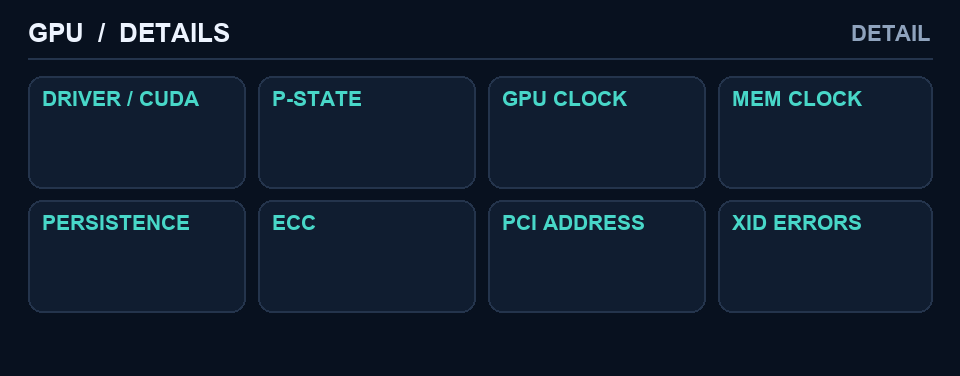
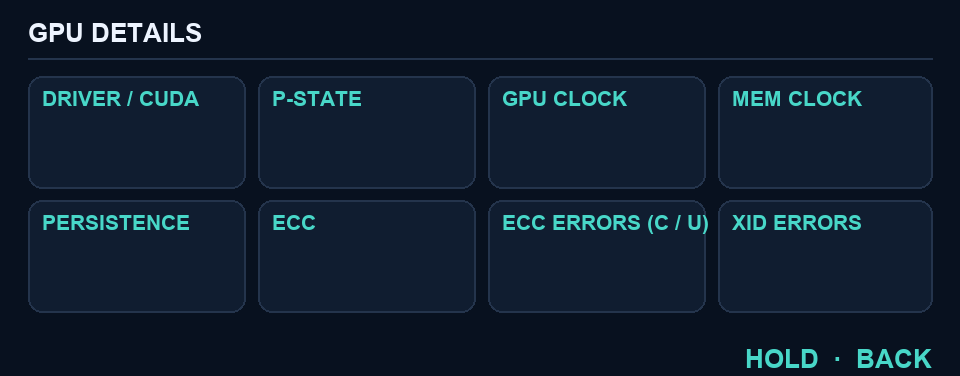
Refine GPU health dashboard

diff --git a/dashboard/generate-gpu-panels.py b/dashboard/generate-gpu-panels.py
@@ -28,7 +28,8 @@ def background(path, title, page, labels, detail=False):
     image = Image.new("RGB", (W, H), BG)
     draw = ImageDraw.Draw(image)
     draw.text((28, 18), title, font=font(26, True), fill=TEXT)
-    draw.text((930, 21), page, font=font(22, True), fill=MUTED, anchor="ra")
+    if page:
+        draw.text((930, 21), page, font=font(22, True), fill=MUTED, anchor="ra")
     draw.line((28, 58, 932, 58), fill=LINE, width=2)
     boxes = [
         (28, 76, 245, 188), (258, 76, 475, 188), (488, 76, 705, 188), (718, 76, 932, 188),
@@ -37,9 +38,10 @@ def background(path, title, page, labels, detail=False):
     for box, label in zip(boxes, labels):
         draw.rounded_rectangle(box, radius=14, fill=CARD, outline=LINE, width=2)
         draw.text((box[0] + 14, box[1] + 10), label, font=font(21, True), fill=TEAL if detail else BLUE)
-    if not detail:
-        draw.rounded_rectangle((730, 326, 932, 365), radius=19, outline=TEAL, width=2)
-        draw.text((831, 345), "HOLD · DETAILS ›", font=font(19, True), fill=TEAL, anchor="mm")
+    if detail:
+        draw.text((932, 344), "HOLD  ·  BACK", font=font(26, True), fill=TEAL, anchor="ra")
+    else:
+        draw.text((932, 344), "HOLD  ·  DETAILS", font=font(26, True), fill=TEAL, anchor="ra")
     image.save(path)
 
 
@@ -57,11 +59,11 @@ def sensor(name, x, y, size=28, unit="", color=TEXT):
 
 
 background(ASSETS / "gpu.png", "HOME LAB  /  GPU", "3/6",
-           ["TEMPERATURE", "GPU LOAD", "VRAM USED / TOTAL", "POWER / LIMIT",
+           ["TEMPERATURE", "GPU LOAD", "VRAM (MiB)", "POWER (W)",
             "FAN", "TOP CUDA PROCESS", "DCGM", "HEALTH"])
-background(ASSETS / "gpu-details.png", "GPU  /  DETAILS", "DETAIL",
+background(ASSETS / "gpu-details.png", "GPU DETAILS", "",
            ["DRIVER / CUDA", "P-STATE", "GPU CLOCK", "MEM CLOCK",
-            "PERSISTENCE", "ECC", "PCI ADDRESS", "XID ERRORS"], detail=True)
+            "PERSISTENCE", "ECC", "ECC ERRORS (C / U)", "XID ERRORS"], detail=True)
 
 data = json.loads(CONFIG.read_text())
 data["diy"] = [p for p in data["diy"] if p["name"] not in {"GPU", "GPU > Details"}]
@@ -87,7 +89,7 @@ details = {
         sensor("lab_nvidia_driver_cuda", 136, 132, 24), sensor("lab_nvidia_pstate", 366, 132, 30),
         sensor("lab_nvidia_clock", 596, 132, 28, " MHz"), sensor("lab_nvidia_mem_clock", 825, 132, 28, " MHz"),
         sensor("lab_nvidia_persistence", 136, 256, 27), sensor("lab_nvidia_ecc", 366, 256, 27),
-        sensor("lab_nvidia_pci", 596, 256, 23), sensor("lab_nvidia_xid", 825, 256, 30),
+        sensor("lab_nvidia_ecc_errors", 596, 256, 28), sensor("lab_nvidia_xid", 825, 256, 30),
     ],
 }
 data["diy"].extend([gpu, details, *actions])
